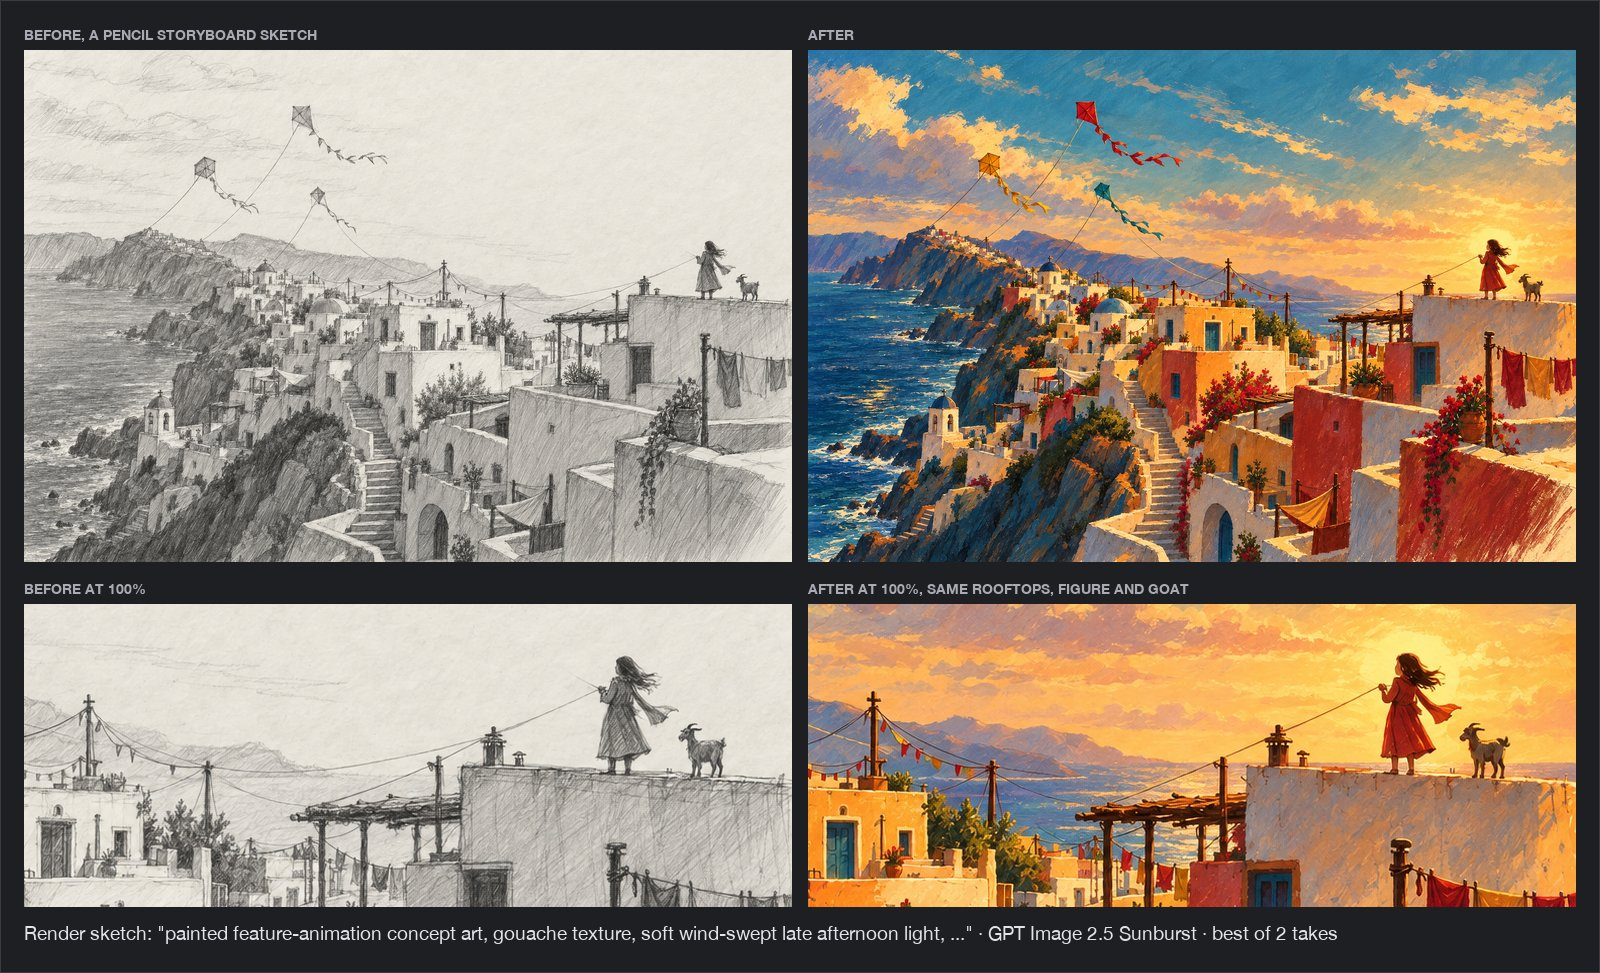
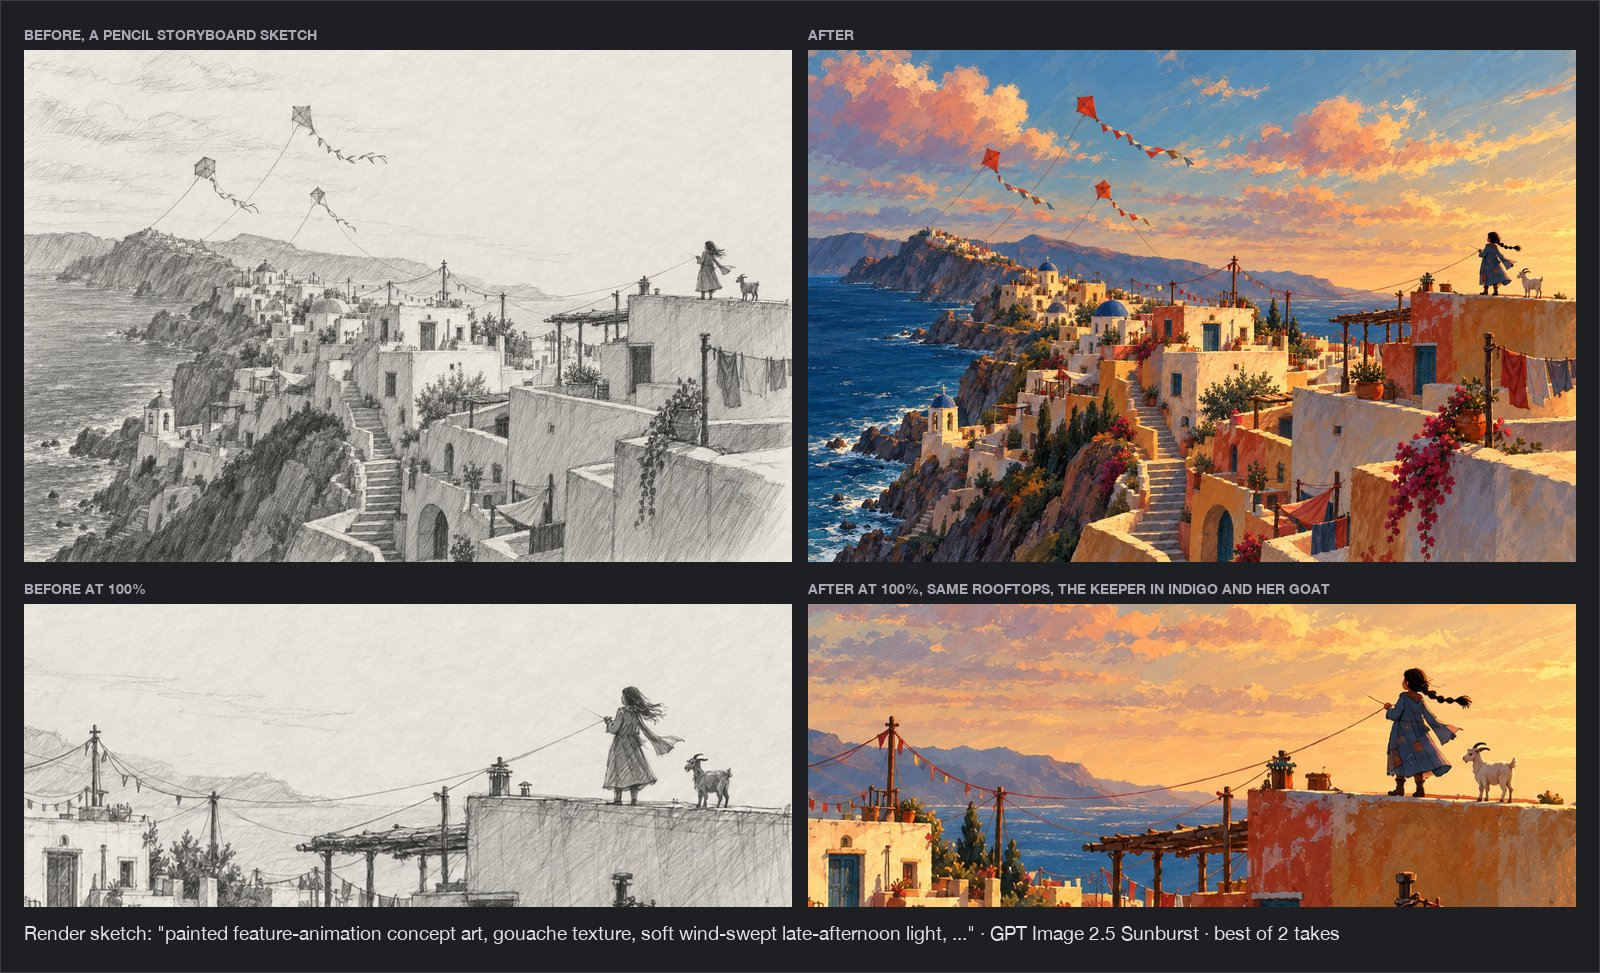
docs: render sketch card redone with the keeper in indigo

diff --git a/docs/USER_GUIDE.md b/docs/USER_GUIDE.md
@@ -89,7 +89,7 @@ With no selection, the panel works on the active layer, or the whole image for a
 
 **Render sketch** (More > Make variants): turns a line drawing into a finished image from your prompt (GPT Image 2.5 Sunburst).
 
-![A pencil storyboard sketch of a cliff-side town with kites and a figure on a roof, rendered as painted animation concept art at sunset; at 100% the rooftops, figure and goat keep their places](media/before-after/render-sketch-kite-town.jpg)
+![A pencil storyboard sketch of a cliff-side town with kites and a figure on a roof, rendered as painted animation concept art at sunset; at 100% the rooftops, the keeper in her indigo coat and the goat keep their places](media/before-after/render-sketch-kite-town.jpg)
 
 **New angle** (More > Make variants): Turn left 45°, Turn right 45°, Side view, Back view or From above. No prompt.
 
